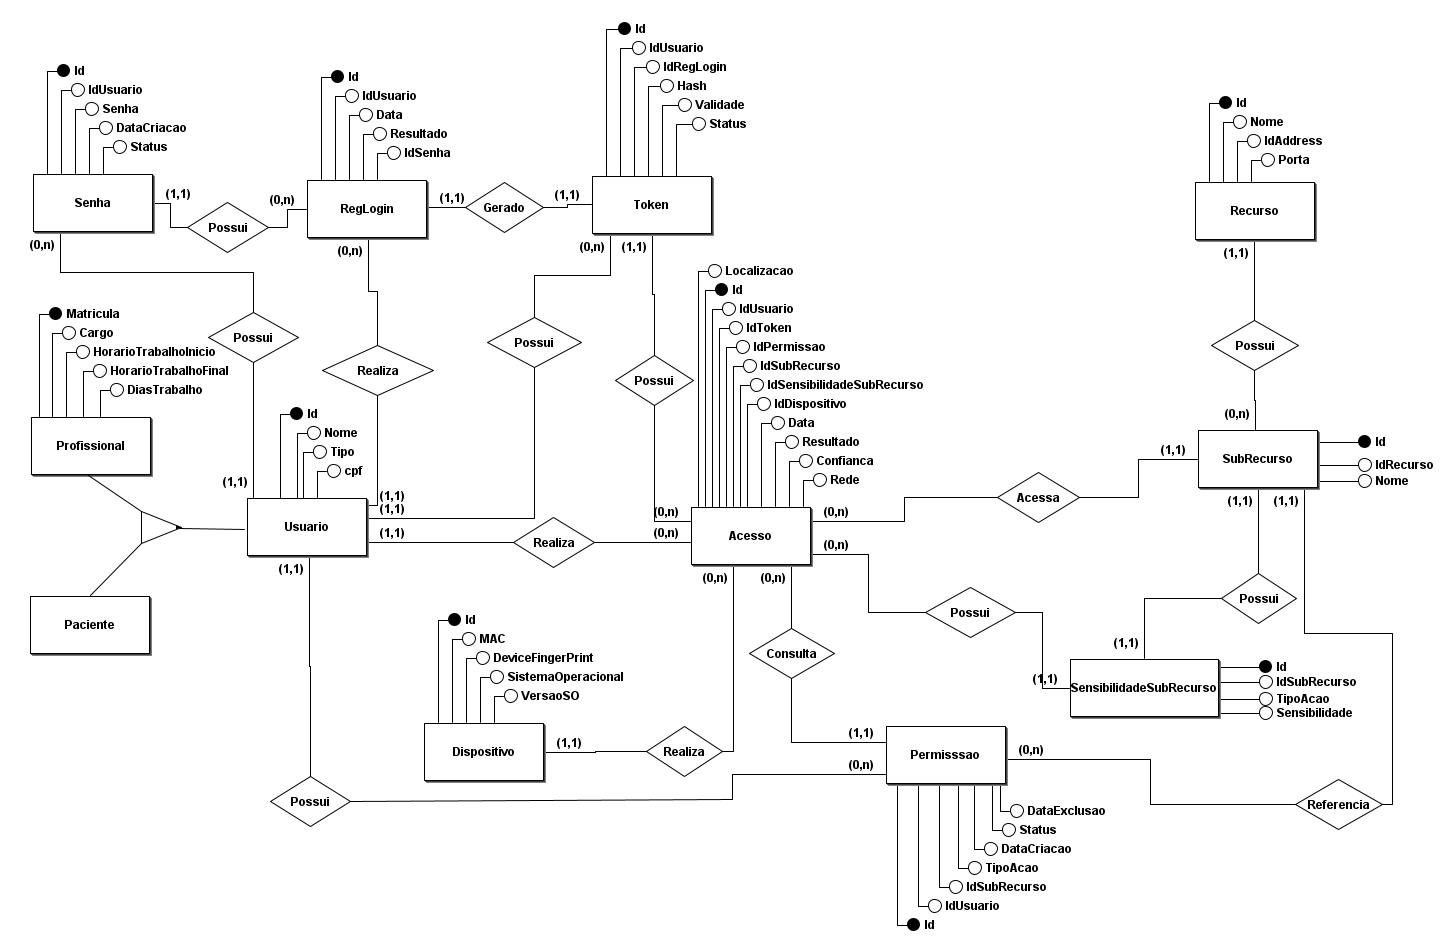
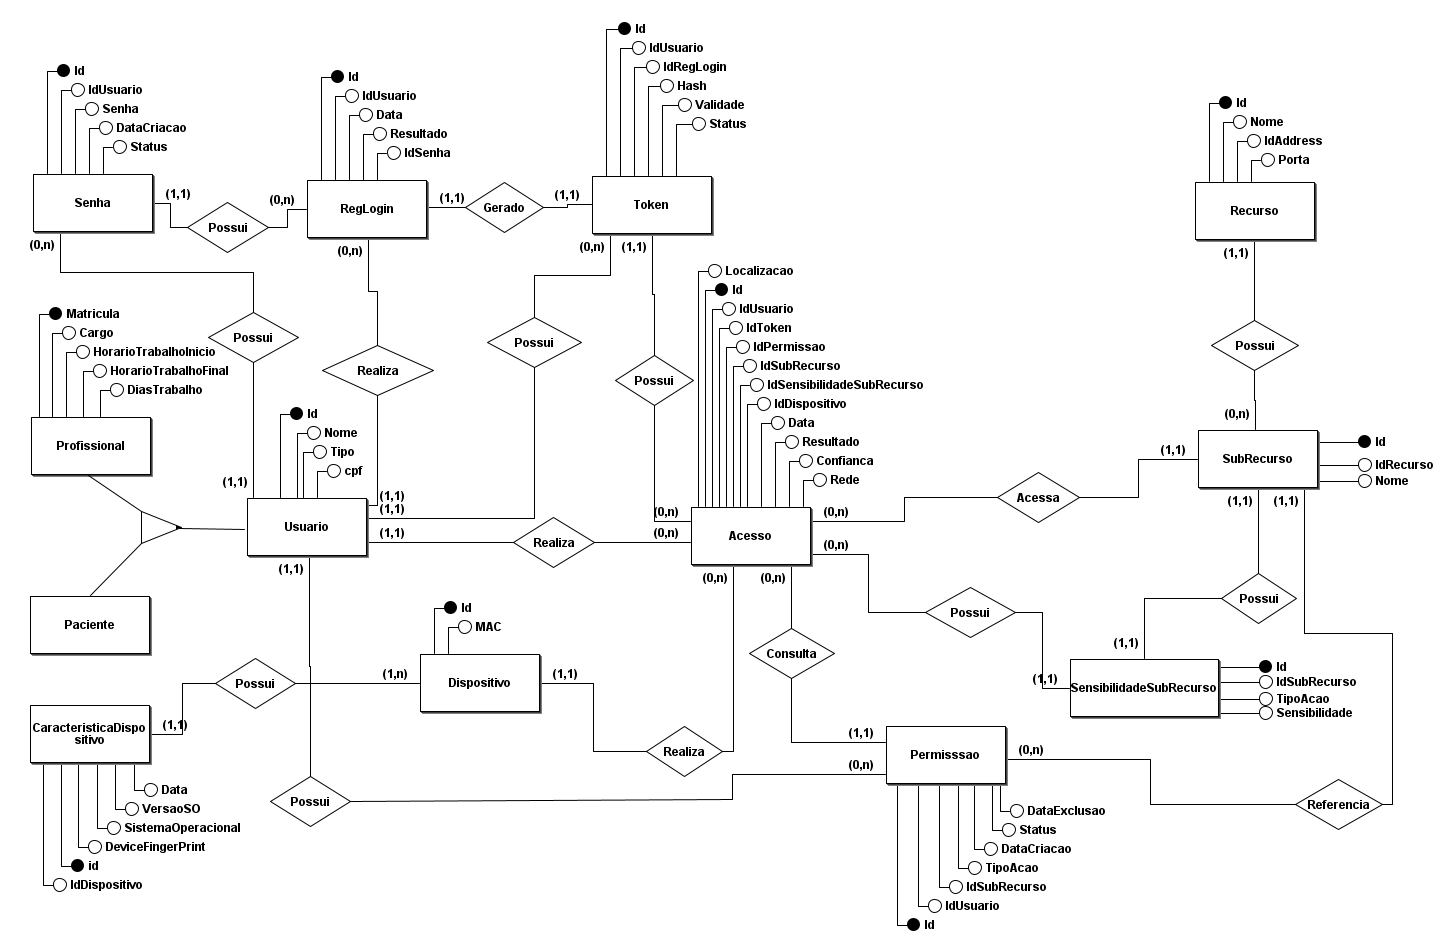
Correções e incrementos no PIP

diff --git a/zt-architecture/PolicyInformationPoint.py b/zt-architecture/PolicyInformationPoint.py
@@ -24,6 +24,25 @@ class PolicyInformationPoint:
         if self.connection:
             self.connection.close()
 
+    def getUserAttributes(self, token) -> json:
+        if not self.connection:
+            self.connect()
+
+        try:
+            with self.connection.cursor() as cursor:
+                cursor.execute("SELECT nome, tipo, cpf FROM \"zt-ehealth\".\"Usuario\" WHERE id = (SELECT \"idUsuario\" FROM \"zt-ehealth\".\"Token\" WHERE hash = '"+token+"')")
+                result = cursor.fetchone()
+                if result:
+                    return {
+                        "nome": result[0],
+                        "tipo": result[1],
+                        "cpf": result[2]
+                    }
+                return None
+        except Exception as e:
+            print(e)
+            return None
+
     def checkTokenValidity(self, token, currentDate) -> bool:
         if not self.connection:
             self.connect()
@@ -35,6 +54,9 @@ class PolicyInformationPoint:
                 if validity:
                     if (datetime.datetime.strptime(currentDate, "%Y-%m-%d %H:%M:%S.%f").replace(tzinfo=datetime.timezone(datetime.timedelta(hours=-3))) - validity) <= datetime.timedelta(hours=3):
                         return True
+                    else:
+                        cursor.execute("UPDATE \"zt-ehealth\".\"Token\" SET status='Inativo' WHERE hash = '"+token+"'")
+                        self.connection.commit()
                 return False
         except Exception as e:
             print(e)
@@ -161,13 +183,14 @@ class PolicyInformationPoint:
             print(e)
             return None
         
-    def getUserPasswordHistory(self, cpf, limit) -> list:
+    def getUserPasswordHistory(self, cpf, currentDate) -> list:
         if not self.connection:
             self.connect()
 
         try:
             with self.connection.cursor() as cursor:
-                cursor.execute("SELECT \"dataCriacao\", status FROM \"zt-ehealth\".\"Senha\" WHERE \"idUsuario\" = (SELECT id FROM \"zt-ehealth\".\"Usuario\" WHERE cpf = '"+cpf+"') LIMIT "+str(limit))
+                date = datetime.datetime.strptime(currentDate, "%Y-%m-%d %H:%M:%S.%f").replace(tzinfo=datetime.timezone(datetime.timedelta(hours=-3))) - datetime.timedelta(hours=3)
+                cursor.execute("SELECT \"dataCriacao\", status FROM \"zt-ehealth\".\"Senha\" WHERE \"idUsuario\" = (SELECT id FROM \"zt-ehealth\".\"Usuario\" WHERE cpf = '"+cpf+"') AND \"dataCriacao\" >= '"+str(date)+"'")
                 result = cursor.fetchall()
                 if result:
                     return result
@@ -176,13 +199,14 @@ class PolicyInformationPoint:
             print(e)
             return None
         
-    def getRegLoginHistory(self, cpf, limit) -> list:
+    def getRegLoginHistory(self, cpf, currentDate) -> list:
         if not self.connection:
             self.connect()
 
         try:
             with self.connection.cursor() as cursor:
-                cursor.execute("SELECT data, resultado FROM \"zt-ehealth\".\"RegLogin\" WHERE \"idUsuario\" = (SELECT id FROM \"zt-ehealth\".\"Usuario\" WHERE cpf = '"+cpf+"') LIMIT "+str(limit))
+                date = datetime.datetime.strptime(currentDate, "%Y-%m-%d %H:%M:%S.%f").replace(tzinfo=datetime.timezone(datetime.timedelta(hours=-3))) - datetime.timedelta(hours=3)
+                cursor.execute("SELECT data, resultado FROM \"zt-ehealth\".\"RegLogin\" WHERE \"idUsuario\" = (SELECT id FROM \"zt-ehealth\".\"Usuario\" WHERE cpf = '"+cpf+"') AND data >= '"+str(date)+"'")
                 result = cursor.fetchall()
                 if result:
                     return result
@@ -191,13 +215,14 @@ class PolicyInformationPoint:
             print(e)
             return None
         
-    def getLocationAccessUser(self, cpf, limit) -> list:
+    def getLocationAccessUser(self, cpf, currentDate) -> list:
         if not self.connection:
             self.connect()
 
         try:
             with self.connection.cursor() as cursor:
-                cursor.execute()
+                date = datetime.datetime.strptime(currentDate, "%Y-%m-%d %H:%M:%S.%f").replace(tzinfo=datetime.timezone(datetime.timedelta(hours=-3))) - datetime.timedelta(hours=3)
+                cursor.execute("SELECT latitude, longitude, data FROM \"zt-ehealth\".\"Acesso\" WHERE \"idUsuario\" = (SELECT id FROM \"zt-ehealth\".\"Usuario\" WHERE cpf = '"+cpf+"') AND data >= '"+str(date)+"'")
                 result = cursor.fetchall()
                 if result:
                     return result
@@ -206,23 +231,149 @@ class PolicyInformationPoint:
             print(e)
             return None
     
-    def privilegioReduzidoRecente():
-        print()
+    def getRecentReducedPrivilege(self, cpf, currentDate):
+        if not self.connection:
+            self.connect()
 
-    def redeNormalmenteUtilizada():
-        print()
+        try:
+            with self.connection.cursor() as cursor:
+                date = datetime.datetime.strptime(currentDate, "%Y-%m-%d %H:%M:%S.%f").replace(tzinfo=datetime.timezone(datetime.timedelta(hours=-3))) - datetime.timedelta(hours=336) #2 semanas
+                cursor.execute("SELECT status, \"dataExclusao\" FROM \"zt-ehealth\".\"Permissao\" WHERE \"idUsuario\" = (SELECT id FROM \"zt-ehealth\".\"Usuario\" WHERE cpf = '"+cpf+"') AND status = 'Inativo' AND \"dataExclusao\" >= '"+str(date)+"'")
+                result = cursor.fetchall()
+                if result:
+                    return result
+                return None
+        except Exception as e:
+            print(e)
+            return None
 
-    def historicoUsoDispositivo():
-        print()
+    def getNetworkNormallyUsedByUser(self, cpf, currentDate):
+        if not self.connection:
+            self.connect()
 
-    def getDispositivoPorMAC():
-        print()
+        try:
+            with self.connection.cursor() as cursor:
+                date = datetime.datetime.strptime(currentDate, "%Y-%m-%d %H:%M:%S.%f").replace(tzinfo=datetime.timezone(datetime.timedelta(hours=-3))) - datetime.timedelta(hours=336) #2 semanas
+                cursor.execute("SELECT rede, data FROM \"zt-ehealth\".\"Acesso\" WHERE \"idUsuario\" = (SELECT id FROM \"zt-ehealth\".\"Usuario\" WHERE cpf = '"+cpf+"') AND data >= '"+str(date)+"'")
+                result = cursor.fetchall()
+                if result:
+                    return result
+                return None
+        except Exception as e:
+            print(e)
+            return None
 
-    def getAcessoHistorico():
-        print()
+    def getAcessHistoricByDevice(self, MAC, currentDate):
+        if not self.connection:
+            self.connect()
 
-    def registrarDispositivo():
-        print()
+        try:
+            with self.connection.cursor() as cursor:
+                date = datetime.datetime.strptime(currentDate, "%Y-%m-%d %H:%M:%S.%f").replace(tzinfo=datetime.timezone(datetime.timedelta(hours=-3))) - datetime.timedelta(hours=336) #2 semanas
+                cursor.execute("SELECT \"idUsuario\", \"idToken\", \"idPermissao\", \"idSubRecurso\", \"idSensibilidadeSubRecurso\", \"idDispositivo\", latitude, longitude, data, resultado, rede, confianca FROM \"zt-ehealth\".\"Acesso\" WHERE \"idDispositivo\" = (SELECT id FROM \"zt-ehealth\".\"Dispositivo\" WHERE \"MAC\" = '"+MAC+"') AND data >= '"+str(date)+"'")
+                result = cursor.fetchall()
+                if result:
+                    return result
+                return None
+        except Exception as e:
+            print(e)
+            return None
 
-    def registrarAcesso():
-        print()
+    def getDeviceByMAC(self, MAC):
+        if not self.connection:
+            self.connect()
+
+        try:
+            with self.connection.cursor() as cursor:
+                cursor.execute("SELECT * FROM \"zt-ehealth\".\"CaracteristicaDispositivo\" AS c INNER JOIN \"zt-ehealth\".\"Dispositivo\" AS d ON c.\"idDispositivo\"= d.id WHERE d.\"MAC\" = '"+MAC+"' AND c.status = 'Ativo'")
+                result = cursor.fetchone()
+                if result:
+                    return result
+                return None
+        except Exception as e:
+            print(e)
+            return None
+
+    def checkRecentDeviceChanges(self, MAC, currentDate):
+        if not self.connection:
+            self.connect()
+
+        try:
+            with self.connection.cursor() as cursor:
+                date = datetime.datetime.strptime(currentDate, "%Y-%m-%d %H:%M:%S.%f").replace(tzinfo=datetime.timezone(datetime.timedelta(hours=-3))) - datetime.timedelta(hours=72) #3 dias
+                cursor.execute("SELECT \"deviceFingerPrint\", \"sistemaOperacional\", \"versaoSO\", data, status FROM \"zt-ehealth\".\"CaracteristicaDispositivo\" WHERE \"idDispositivo\" = (SELECT id FROM \"zt-ehealth\".\"Dispositivo\" WHERE \"MAC\" = '"+MAC+"') AND data >= '"+str(date)+"'")
+                result = cursor.fetchall()
+                if result:
+                    return result
+                return None
+        except Exception as e:
+            print(e)
+            return None
+
+    def registerDevice(self, MAC, deviceFingerPrint, SO, versionSO, date) -> bool:
+        if not self.connection:
+            self.connect()
+
+        try:
+            with self.connection.cursor() as cursor:
+                cursor.execute("INSERT INTO \"zt-ehealth\".\"Dispositivo\"(\"MAC\") VALUES ('"+MAC+"') RETURNING id")
+                deviceId = cursor.fetchone()[0]
+
+                if deviceId:
+                    cursor.execute("INSERT INTO \"zt-ehealth\".\"CaracteristicaDispositivo\"(\"deviceFingerPrint\", \"sistemaOperacional\", \"versaoSO\", data, status, \"idDispositivo\") VALUES ('"+deviceFingerPrint+"', '"+SO+"', '"+versionSO+"', '"+date+"', 'Ativo', "+str(deviceId)+")")
+                    self.connection.commit()
+                    return True
+                return False
+        except Exception as e:
+            print(e)
+            return False
+        
+    def updateDeviceCharacteristic(self, MAC, deviceFingerPrint, SO, versionSO, date) -> bool:
+        if not self.connection:
+            self.connect()
+
+        try:
+            with self.connection.cursor() as cursor:
+                cursor.execute("UPDATE \"zt-ehealth\".\"CaracteristicaDispositivo\" SET status='Inativo' WHERE \"idDispositivo\" = (SELECT id FROM \"zt-ehealth\".\"Dispositivo\" WHERE \"MAC\" = '"+MAC+"') AND status = 'Ativo'")
+                updated = cursor.rowcount
+
+                if updated > 0:
+                    cursor.execute("INSERT INTO \"zt-ehealth\".\"CaracteristicaDispositivo\"(\"deviceFingerPrint\", \"sistemaOperacional\", \"versaoSO\", data, status, \"idDispositivo\") VALUES ('"+deviceFingerPrint+"', '"+SO+"', '"+versionSO+"', '"+date+"', 'Ativo', (SELECT id FROM \"zt-ehealth\".\"Dispositivo\" WHERE \"MAC\" = '"+MAC+"'))")
+                    self.connection.commit()
+                    return True
+                return False
+        except Exception as e:
+            print(e)
+            return False
+
+    def getAcessHistoricByUser(self, cpf, currentDate): # A Testar...
+        if not self.connection:
+            self.connect()
+
+        try:
+            with self.connection.cursor() as cursor:
+                date = datetime.datetime.strptime(currentDate, "%Y-%m-%d %H:%M:%S.%f").replace(tzinfo=datetime.timezone(datetime.timedelta(hours=-3))) - datetime.timedelta(hours=24) #1 dias
+                cursor.execute("SELECT \"idUsuario\", \"idToken\", \"idPermissao\", \"idSubRecurso\", \"idSensibilidadeSubRecurso\", \"idDispositivo\", latitude, longitude, data, resultado, rede, confianca FROM \"zt-ehealth\".\"Acesso\" WHERE \"idUsuario\" = (SELECT id FROM \"zt-ehealth\".\"Usuario\" WHERE cpf = '"+cpf+"') AND data >= '"+str(date)+"'")
+                result = cursor.fetchall()
+                if result:
+                    return result
+                return None
+        except Exception as e:
+            print(e)
+            return None
+
+    def registerAccess(self, cpf, token, latitude, longitude, MAC, date, ipAddress, result, trust, resourceName, subResourceName, typeAction):
+        if not self.connection:
+            self.connect()
+
+        try:
+            with self.connection.cursor() as cursor:
+                cursor.execute("INSERT INTO \"zt-ehealth\".\"Acesso\"(\"idUsuario\", \"idToken\", \"idPermissao\", \"idSubRecurso\", \"idSensibilidadeSubRecurso\", \"idDispositivo\", latitude, longitude, data, resultado, rede, confianca) VALUES ((SELECT id FROM \"zt-ehealth\".\"Usuario\" WHERE cpf = '"+cpf+"'), (SELECT id FROM \"zt-ehealth\".\"Token\" WHERE hash = '"+token+"' AND status = 'Ativo'), (SELECT id FROM \"zt-ehealth\".\"Permissao\" WHERE \"idUsuario\" = (SELECT id FROM \"zt-ehealth\".\"Usuario\" WHERE cpf = '"+cpf+"') AND \"idSubRecurso\" = ((SELECT id FROM \"zt-ehealth\".\"SubRecurso\" WHERE nome = '"+subResourceName+"' AND \"idRecurso\" = (SELECT id FROM \"zt-ehealth\".\"Recurso\" WHERE nome = '"+resourceName+"'))) AND \"tipoAcao\" = '"+typeAction+"' AND status = 'Ativo'), (SELECT id FROM \"zt-ehealth\".\"SubRecurso\" WHERE nome = '"+subResourceName+"' AND \"idRecurso\" = (SELECT id FROM \"zt-ehealth\".\"Recurso\" WHERE nome = '"+resourceName+"')), (SELECT id FROM \"zt-ehealth\".\"SensibilidadeSubRecurso\" WHERE \"idSubRecurso\" = (SELECT id FROM \"zt-ehealth\".\"SubRecurso\" WHERE nome = '"+subResourceName+"' AND \"idRecurso\" = (SELECT id FROM \"zt-ehealth\".\"Recurso\" WHERE nome = '"+resourceName+"')) AND \"tipoAcao\" = '"+typeAction+"'), (SELECT id FROM \"zt-ehealth\".\"Dispositivo\" WHERE \"MAC\" = '"+MAC+"'), '"+latitude+"', '"+longitude+"', '"+date+"', '"+result+"', '"+ipAddress+"', '"+str(trust)+"')")
+                rows_affected = cursor.rowcount
+                self.connection.commit()
+                if rows_affected > 0:
+                    return True
+                return False
+        except Exception as e:
+            print(e)
+            return False
